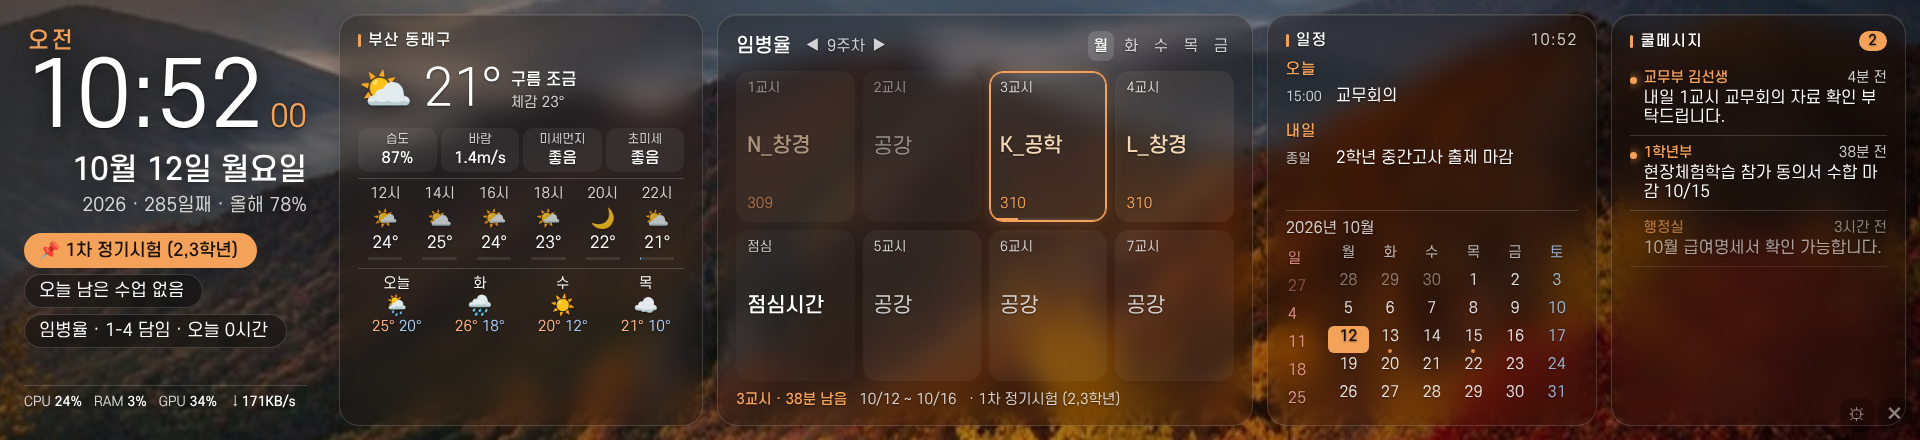
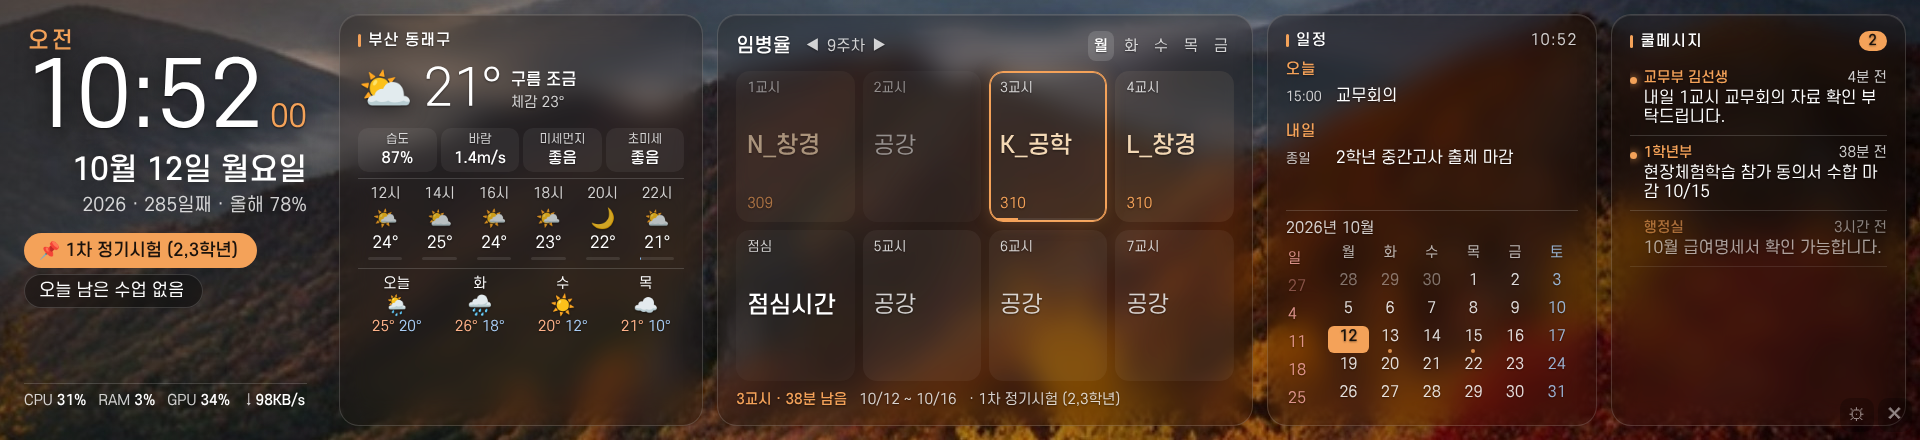
시간표 칸 글자 확대, 의미 없는 담임 칩 제거
Claude-Session: https://claude.ai/code/session_01QUPbRqurHMyWrBwvsguQbh

diff --git a/web/index.html b/web/index.html
@@ -119,9 +119,9 @@
   .slot { position: relative; border-radius: 14px; padding: 10px 12px; background: rgba(255,255,255,.05); overflow: hidden;
     border: 1px solid transparent; display: flex; flex-direction: column; justify-content: space-between; min-width: 0; }
   .slot .no { font-size: 15px; color: var(--muted); display: flex; justify-content: space-between; white-space: nowrap; gap: 6px; }
-  .slot .sj { font-size: 25px; font-weight: 600; white-space: nowrap; overflow: hidden; text-overflow: ellipsis; }
+  .slot .sj { font-size: 28px; font-weight: 600; white-space: nowrap; overflow: hidden; text-overflow: ellipsis; }
   .slot .rm { font-size: 17px; color: var(--muted); white-space: nowrap; overflow: hidden; text-overflow: ellipsis; min-height: 16px; }
-  .slot.free .sj { color: var(--muted); font-weight: 400; font-size: 20px; }
+  .slot.free .sj { color: var(--muted); font-weight: 400; font-size: 22px; }
   .slot.class { background: rgba(255,255,255,.10); }
   .slot.class .sj { color: var(--text); }
   .slot.event { background: rgba(243,216,181,.08); } .slot.event .sj { color: #f3d8b5; } .slot.event .rm { color: var(--accent); }
@@ -219,7 +219,7 @@
   @container (max-width: 500px) {
     .slot .no small { display: none; } .slot .no { font-size: 13px; }
     .slot .no span { overflow: hidden; text-overflow: ellipsis; }
-    .slot .sj { font-size: 20px; } .slot .rm { font-size: 14px; } .slot { padding: 8px 10px; }
+    .slot .sj { font-size: 23px; } .slot .rm { font-size: 14px; } .slot { padding: 8px 10px; }
     #ttName { font-size: 19px; } #ttWeek { font-size: 15px; } #ttFoot { font-size: 14px; }
     #ttDays button { width: 26px; font-size: 15px; } #ttNav button { width: 24px; }
   }
@@ -507,8 +507,6 @@ function renderTodayBox() {
   }
   d.jido.forEach(j => chips.push(`<span class="tchip">🛡 ${j.period}교시 공강지도 · ${esc(j.target)}</span>`));
   if (d.lunchDuty) chips.push(`<span class="tchip">🍱 점심 급식지도</span>`);
-  const n = d.periods.filter(c => c.type === 'class' || c.type === 'sub').length;
-  chips.push(`<span class="tchip">${esc(tt.teacher)}${tt.homeroom ? ` · ${esc(tt.homeroom)} 담임` : ''} · 오늘 ${n}시간</span>`);
   $('todayBox').innerHTML = chips.slice(0, 3).join('');
 }
 
